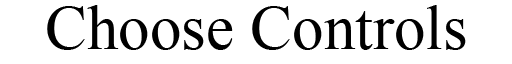
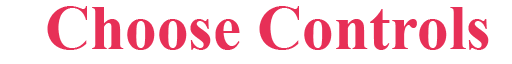
Updated image for better visibility on dark background

diff --git a/core/src/com/pottda/game/view/MainMenuView.java b/core/src/com/pottda/game/view/MainMenuView.java
@@ -101,7 +101,7 @@ public class MainMenuView {
         texture = new Texture(Gdx.files.internal(controlsTitle));
         controlsTitleImage = new Image(texture);
         controlsTitleImage.setX(stage.getWidth() / 2 - texture.getWidth() / 2);
-        controlsTitleImage.setY(stage.getHeight() * 3 / 4);
+        controlsTitleImage.setY(stage.getHeight() * 6.5f / 8);
         stage.addActor(controlsTitleImage);
 
         // Add touch button
